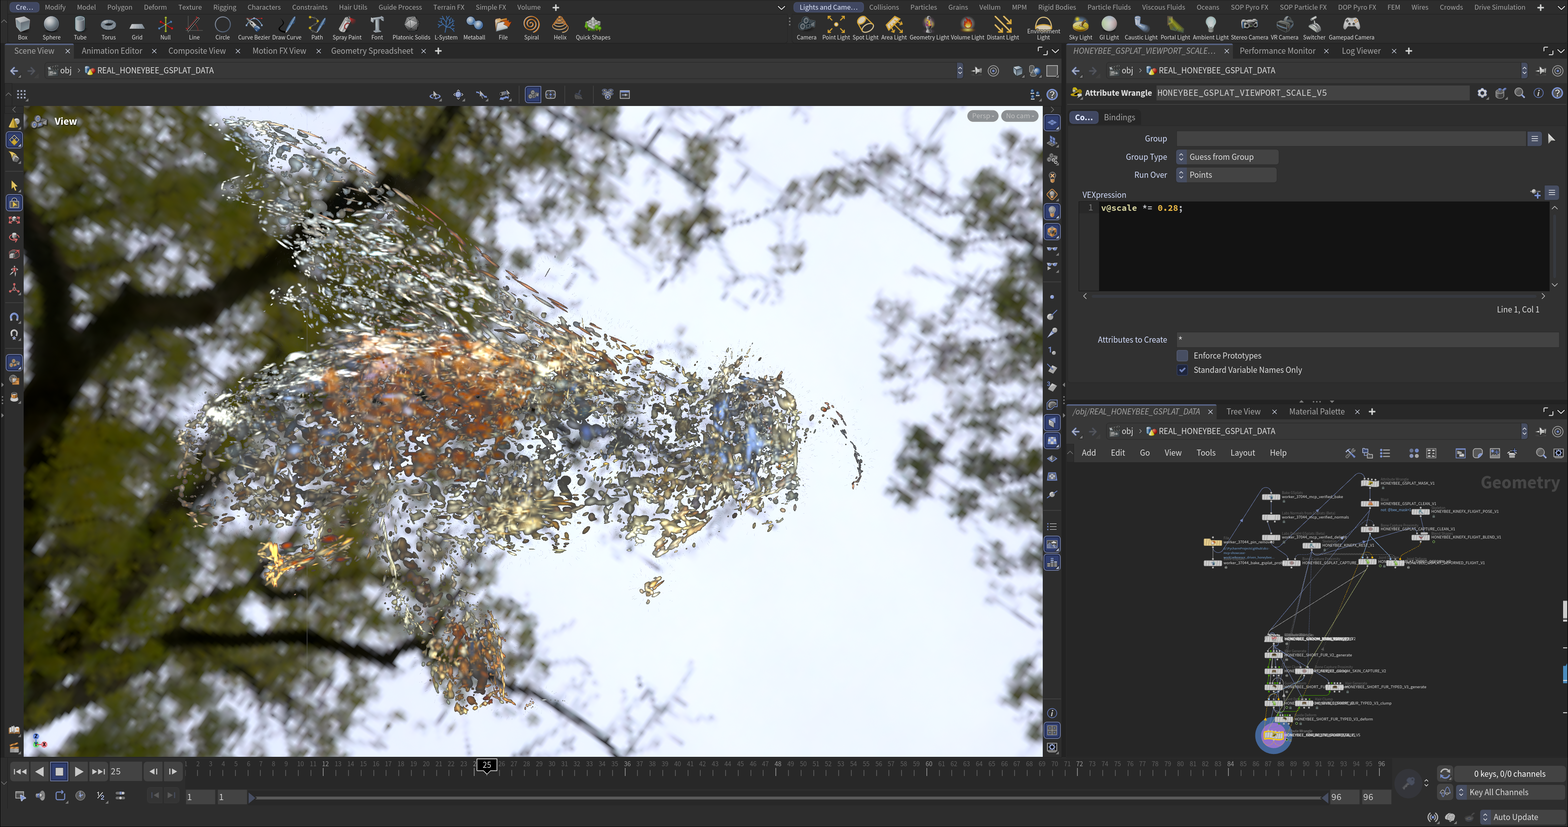
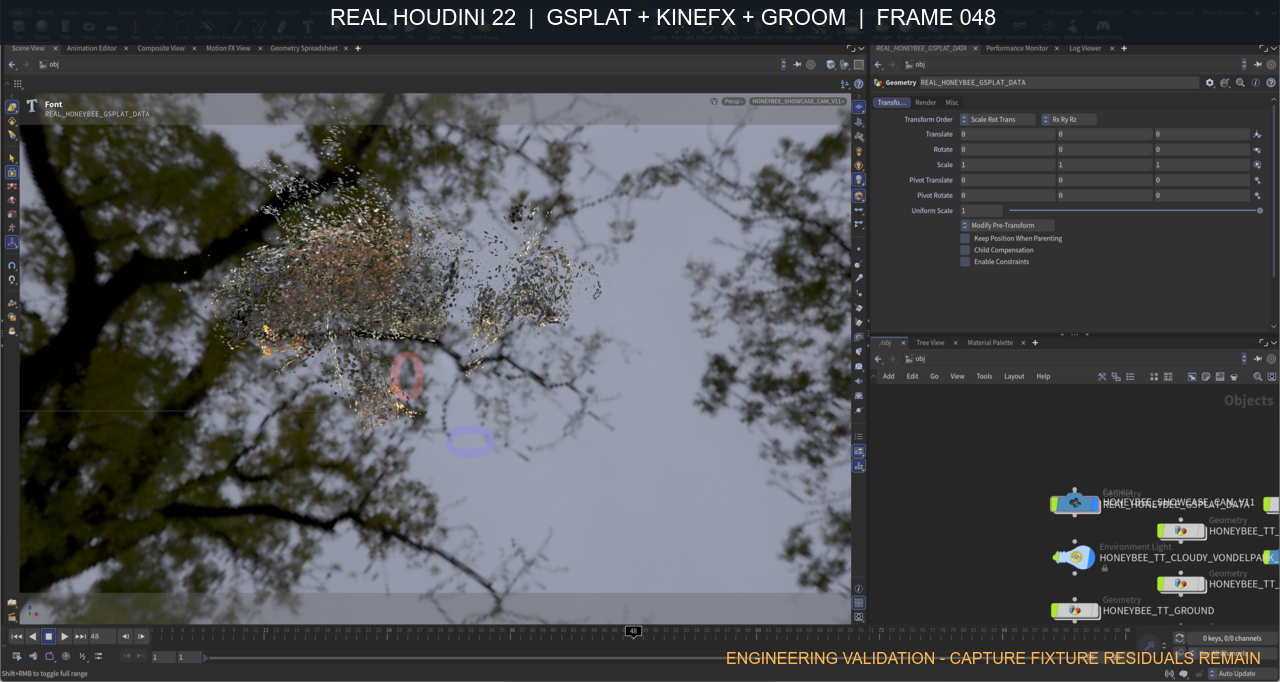
docs: add verified Houdini GSplat capture

diff --git a/README.md b/README.md
@@ -82,7 +82,7 @@ limitations are in
 
 The Houdini 22 scene exercises GSplat-aware KineFX deformation, articulated
 wing/body/leg controls, a deformation-synchronized short-fur Groom, and a fixed
-camera flipbook under a neutral outdoor HDR environment. The six-frame contact
+camera flipbook under a neutral outdoor HDR environment. The five-frame contact
 sheet verifies that one splat instance remains in frame through the 96-frame
 takeoff/flight/landing cycle; the legacy camera object was hidden so its
 viewport frustum cannot be mistaken for model ghosting.
@@ -91,10 +91,12 @@ viewport frustum cannot be mistaken for model ghosting.
 
 ![Real Houdini 22 Scene View, parameters, and KineFX/Groom node graph](docs/showcase/houdini-honeybee-gsplat-kinefx-groom-ui.png)
 
-The UI capture is from the real Houdini process. Only the title bar was cropped
-to remove a local path; the Scene View, parameter editor, timeline, and node
-graph were not recreated. This remains engineering evidence rather than final
-beauty approval: pin removal cannot synthesize occluded anatomy, residual
+The UI capture is from the real Houdini process. DCC-MCP set each audited frame
+and DCC-CUA captured the same exact Houdini PID/window through Windows Graphics
+Capture. Only the title bar was cropped to remove a local path; the Scene View,
+parameter editor, timeline, and node graph were not recreated. This remains
+engineering evidence rather than final beauty approval: pin removal cannot
+synthesize occluded anatomy, residual
 capture-support Gaussians remain visible, and the pinned specimen cannot supply
 biological flight or foot-contact motion. A final living-bee showcase still
 requires a cleaner licensed capture and dedicated contact/occlusion review.

diff --git a/docs/showcase/honeybee-reference-license.md b/docs/showcase/honeybee-reference-license.md
@@ -29,6 +29,14 @@ The real Houdini UI evidence has only its title bar cropped to remove a local
 path. The application chrome below it, Scene View, parameter editor, timeline,
 and node graph are unmodified.
 
+The current UI/GIF sequence was captured from one exact Houdini window at
+frames 1, 25, 48, 72, and 96. Typed DCC-MCP timeline calls set the frame and
+the project-owned DCC-CUA exact-window WGC route captured the pixels. The
+orange engineering label and title-bar removal are the only presentation
+edits. Frame 1 and frame 96 visually close the loop; frame 48 shows the single
+deformed instance. The visible red/blue fixture rings and floating fragments
+are intentionally not painted out.
+
 ## Archived procedural rig validation
 
 The animated asset in this showcase is an original DCC-MCP procedural model.
@@ -57,6 +65,10 @@ CC0 license. It is the only environment emitter in the shot.
 
 - 96 frames at 1280×720 and 24 fps, rendered with Karma and displayed through
   the Houdini 22 ACES configuration.
+- The current 5k checkpoint contains 263,630 trained Gaussians. Its Houdini
+  subject-filtered engineering scene retains 15,475 Gaussians; fresh held-out
+  5k image metrics remain pending and are not substituted with the older 3k
+  preview metrics below.
 - Six procedural leg hierarchies with authored tarsus, pad, and claw controls.
 - Per-frame hierarchy checks keep the tested controls at or above Z=-0.003;
   this is not a substitute for per-primitive collision or contact solving.
